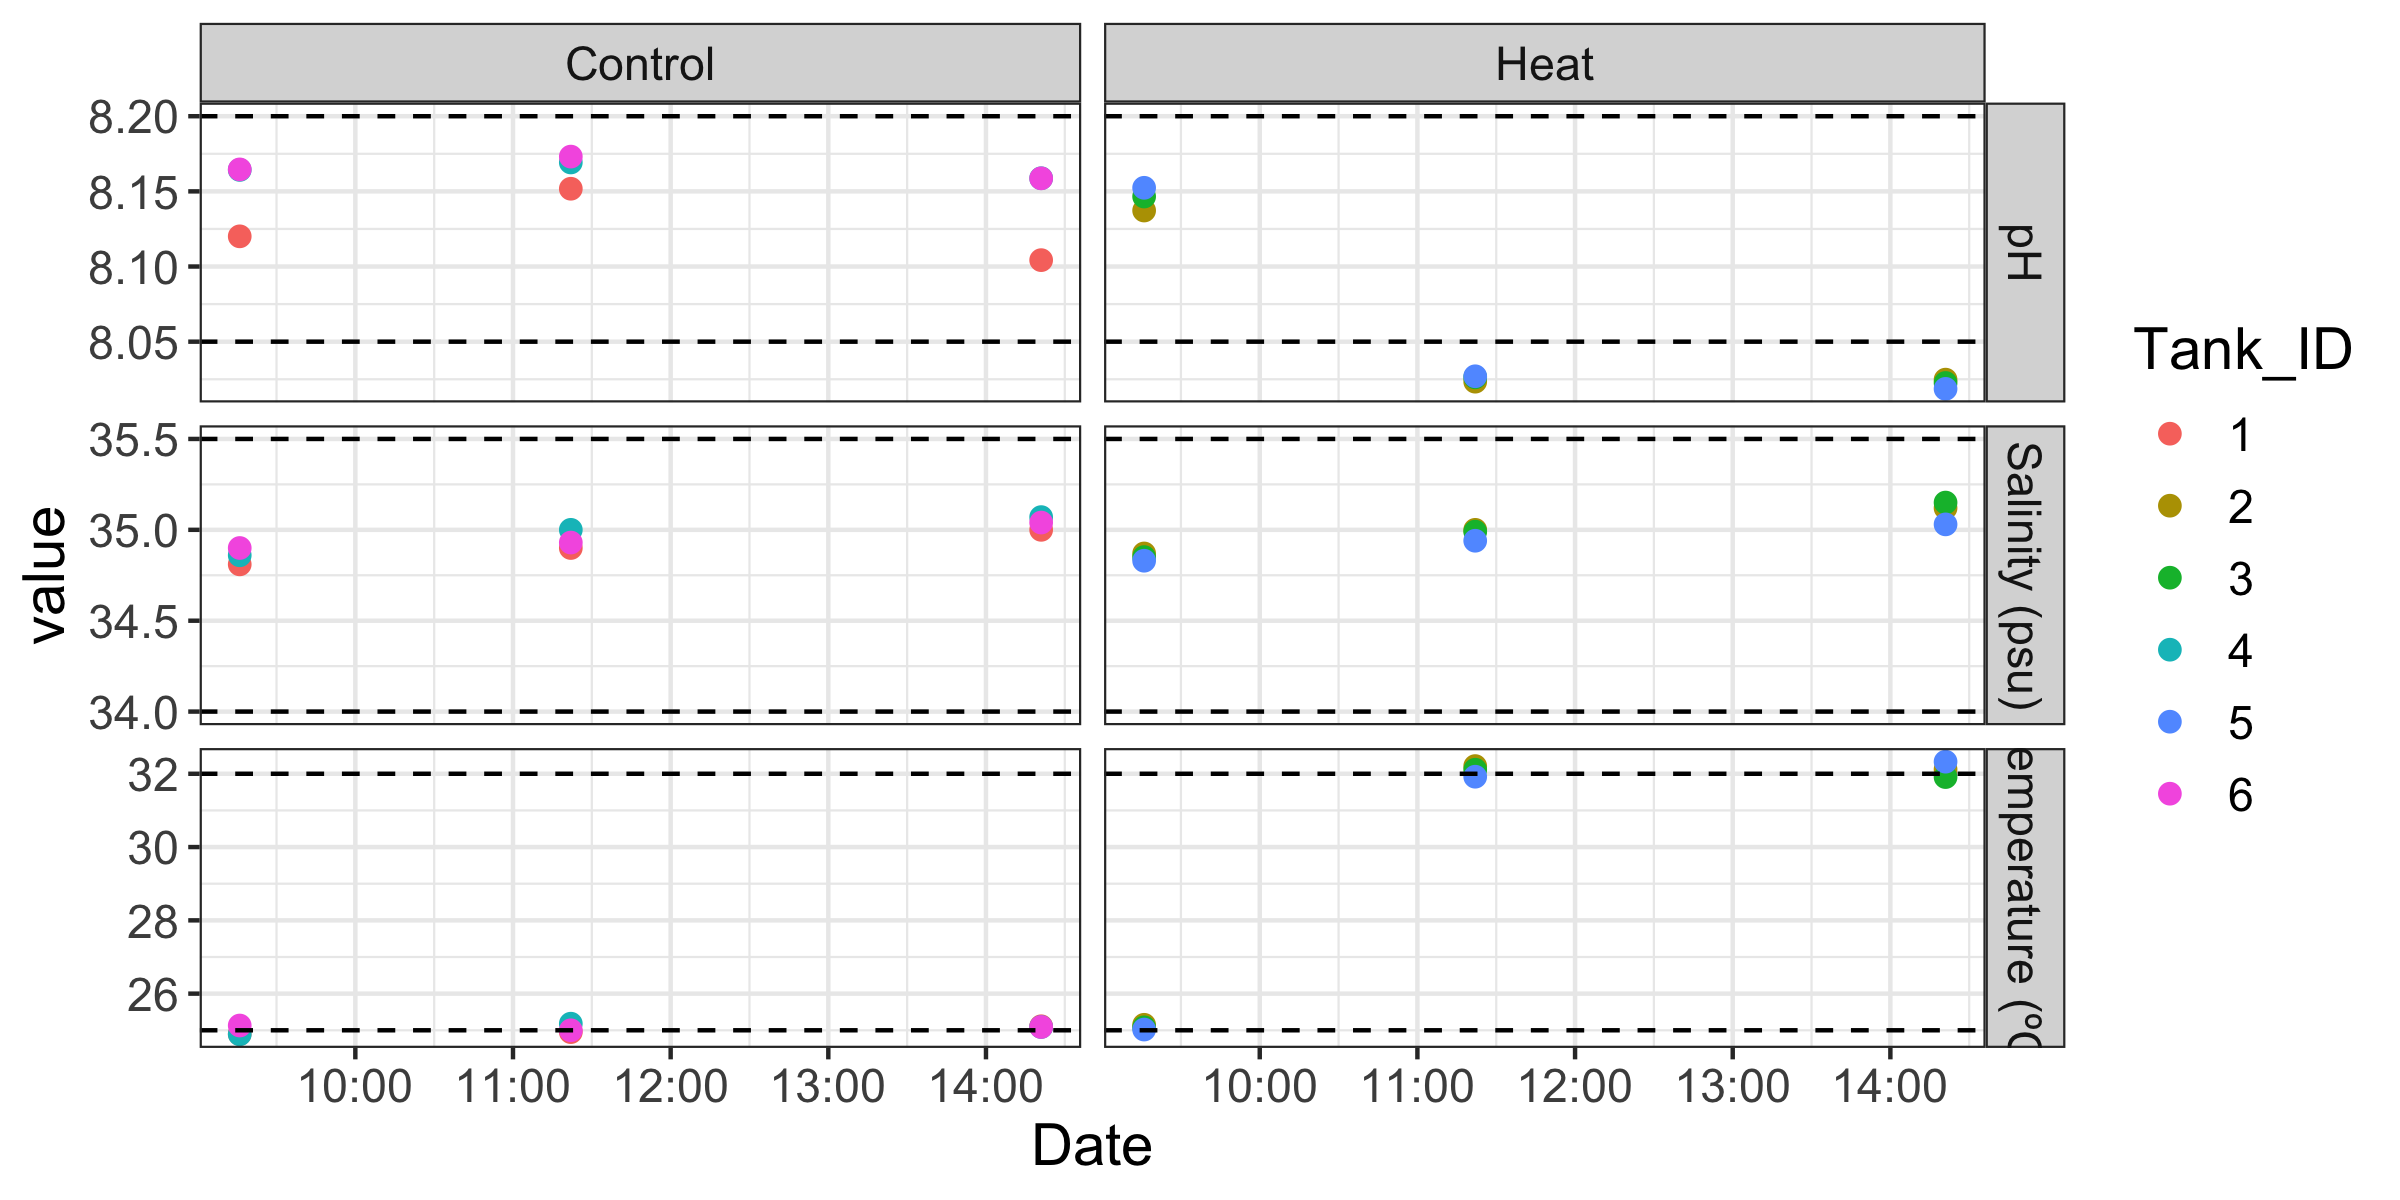
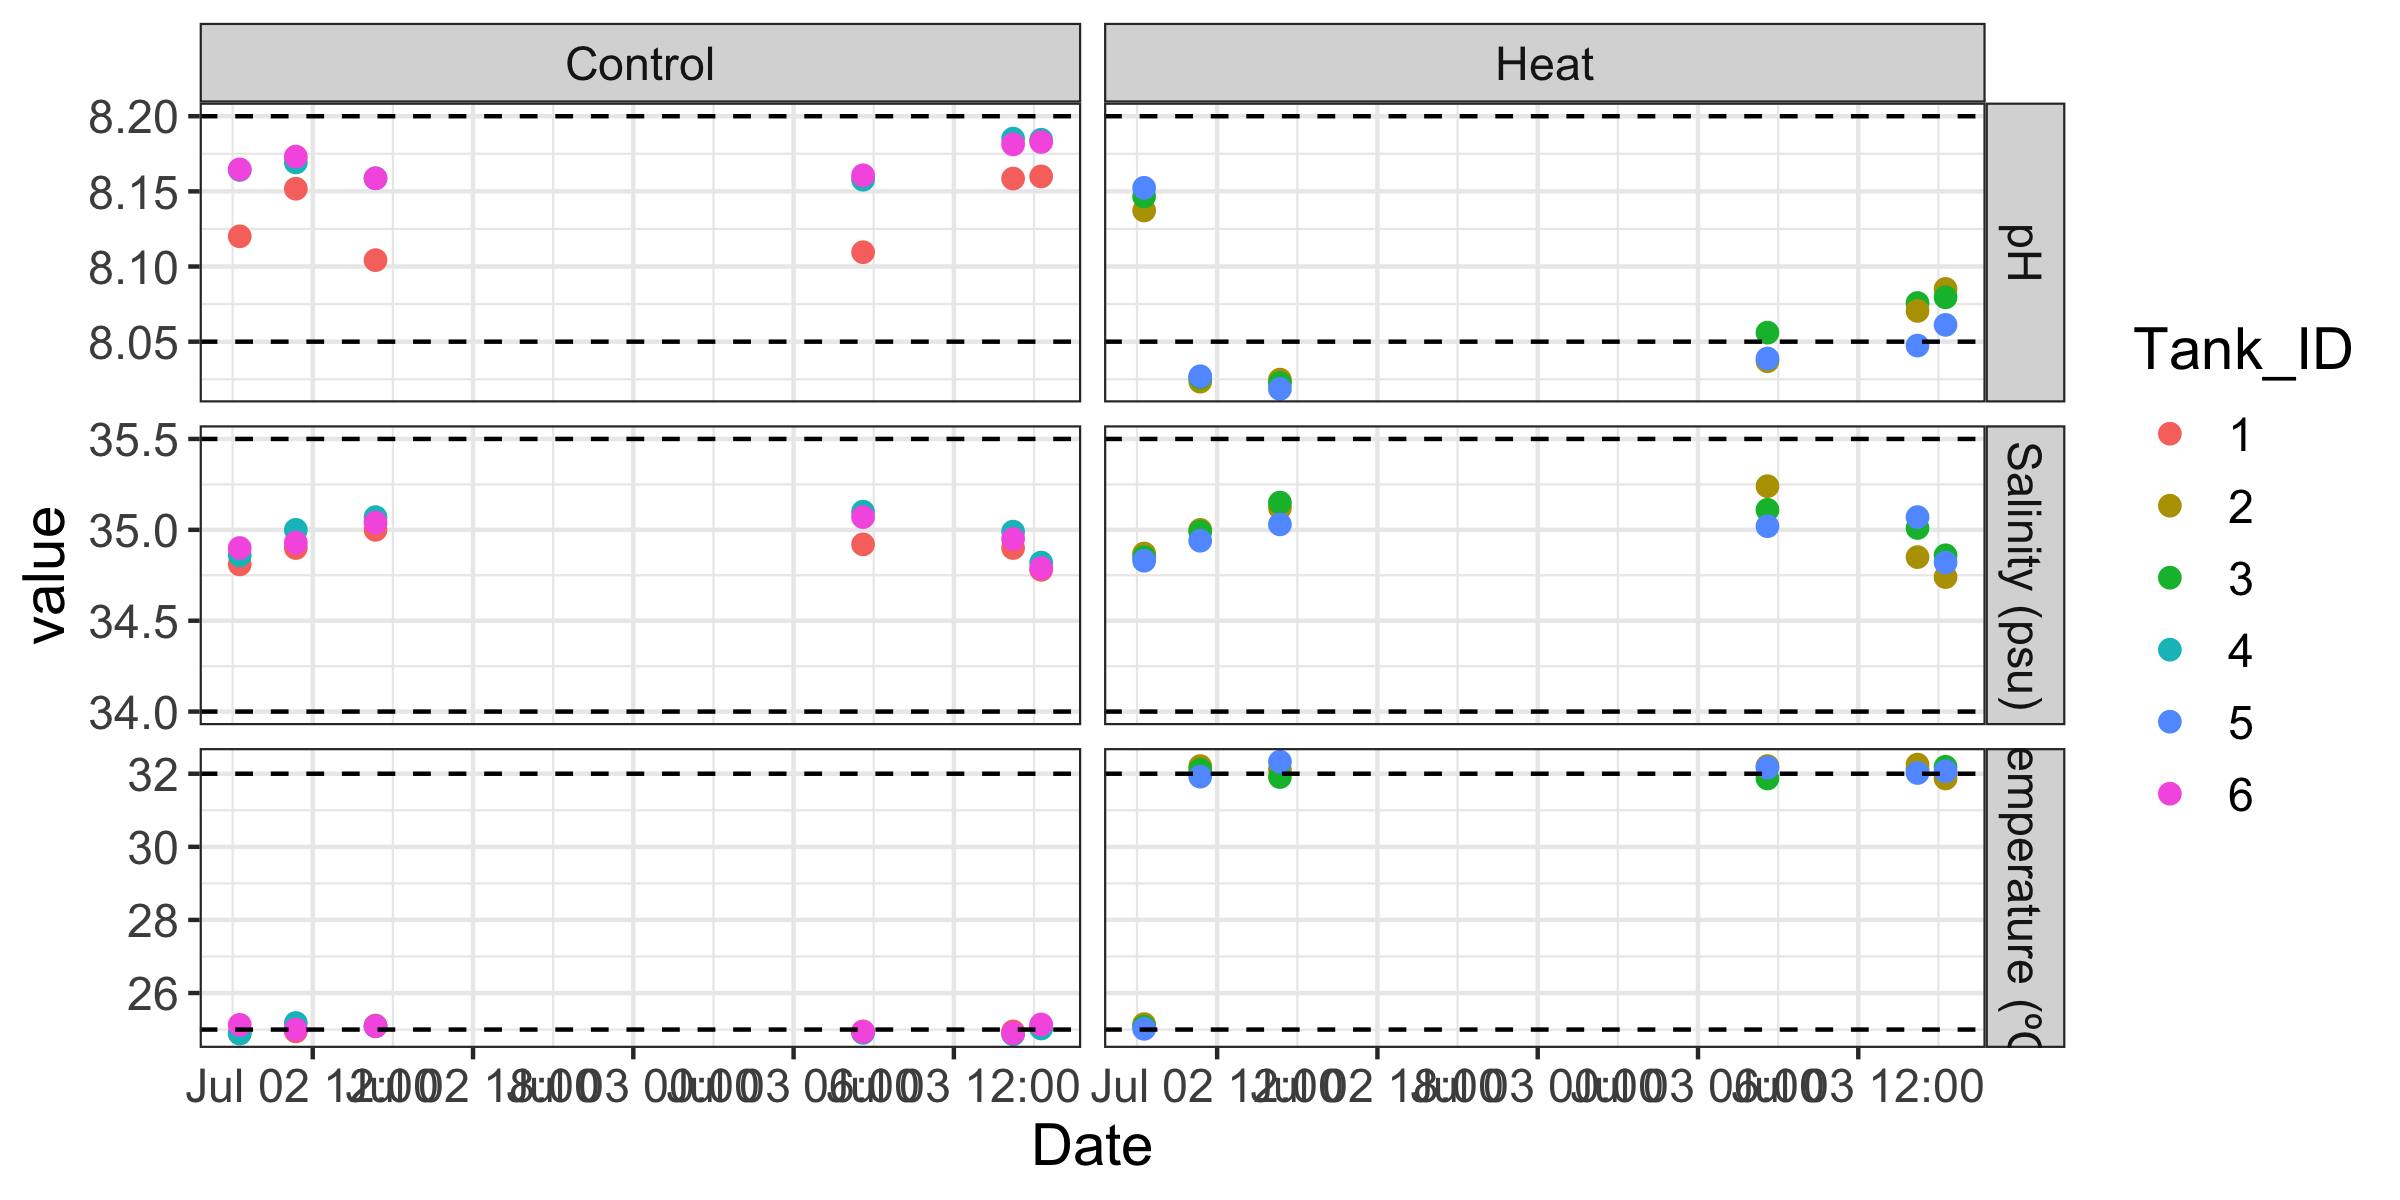
DMs and PAR

diff --git a/2-Mcap/code/DMs.md b/2-Mcap/code/DMs.md
@@ -58,20 +58,20 @@ head(daily)
 tail(daily) # check to make sure data from today is there
 ```
 
-    ##    Date Treatment Tank_ID Time Initials Temperature_C pH_mv Salinity_psu
-    ## 26   NA                NA                          NA    NA           NA
-    ## 27   NA                NA                          NA    NA           NA
-    ## 28   NA                NA                          NA    NA           NA
-    ## 29   NA                NA                          NA    NA           NA
-    ## 30   NA                NA                          NA    NA           NA
-    ## 31   NA                NA                          NA    NA           NA
+    ##        Date Treatment Tank_ID  Time Initials Temperature_C pH_mv Salinity_psu
+    ## 37 20250703   Control       1 15:16       ZD         25.08 -64.3        34.78
+    ## 38 20250703      Heat       2 15:16       ZD         31.87 -65.1        34.74
+    ## 39 20250703      Heat       3 15:16       ZD         32.19 -65.0        34.86
+    ## 40 20250703   Control       4 15:16       ZD         25.03 -65.7        34.82
+    ## 41 20250703      Heat       5 15:16       ZD         32.07 -63.8        34.82
+    ## 42 20250703   Control       6 15:16       ZD         25.14 -65.7        34.79
     ##    tris.date Probe.Set notes
-    ## 26        NA                
-    ## 27        NA                
-    ## 28        NA                
-    ## 29        NA                
-    ## 30        NA                
-    ## 31        NA
+    ## 37  20250618    Probe1      
+    ## 38  20250618    Probe1      
+    ## 39  20250618    Probe1      
+    ## 40  20250618    Probe1      
+    ## 41  20250618    Probe1      
+    ## 42  20250618    Probe1
 
 ``` r
 daily$Date <- as.Date(as.character(daily$Date), format = "%Y%m%d")
@@ -87,19 +87,19 @@ daily.probe1 <- daily %>% filter(Probe.Set == "Probe1")
 range(na.omit(daily.probe1$Temperature_C))
 ```
 
-    ## [1] 24.89 32.33
+    ## [1] 24.87 32.33
 
 ``` r
 range(na.omit(daily.probe1$pH_mv))
 ```
 
-    ## [1] -65 -61
+    ## [1] -65.7 -61.0
 
 ``` r
 range(na.omit(daily.probe1$Salinity_psu))
 ```
 
-    ## [1] 34.63 35.15
+    ## [1] 34.63 35.24
 
 ## 0.2 Calculate total pH from Probe Set 1
 
@@ -248,12 +248,12 @@ summary <- daily_exp%>%
     ## # A tibble: 6 × 9
     ##   Tank_ID Temperature_C_mean Temperature_C_sd Salinity_psu_mean Salinity_psu_sd
     ##   <chr>                <dbl>            <dbl>             <dbl>           <dbl>
-    ## 1 1                     25.0           0.110               34.9          0.0950
-    ## 2 2                     29.8           4.05                35.0          0.125 
-    ## 3 3                     29.7           4.00                35.0          0.150 
-    ## 4 4                     25.1           0.148               35.0          0.107 
-    ## 5 5                     29.8           4.11                34.9          0.100 
-    ## 6 6                     25.1           0.0666              35.0          0.0737
+    ## 1 1                     25.0           0.0841              34.9          0.0794
+    ## 2 2                     31.0           2.85                35.0          0.186 
+    ## 3 3                     30.9           2.84                35.0          0.124 
+    ## 4 4                     25.0           0.125               35.0          0.112 
+    ## 5 5                     30.9           2.89                35.0          0.107 
+    ## 6 6                     25.0           0.102               34.9          0.101 
     ## # ℹ 4 more variables: pH.total_mean <dbl>, pH.total_sd <dbl>, pH_mv_mean <dbl>,
     ## #   pH_mv_sd <dbl>
 
